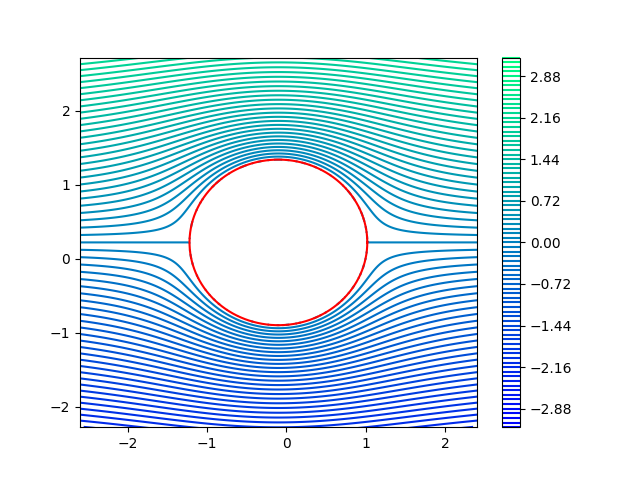
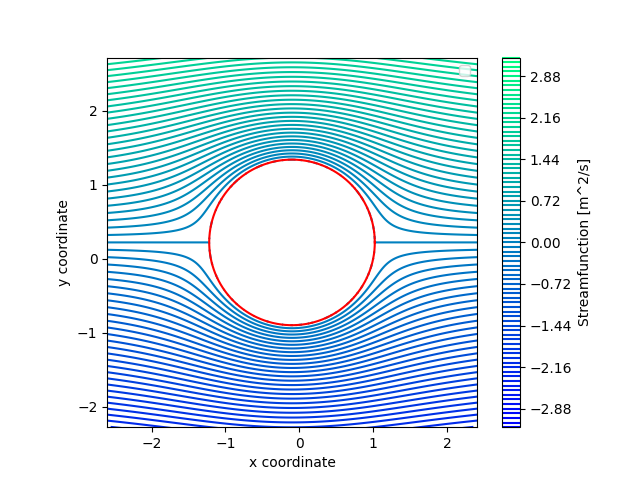
aded axis labels and regenerated figures with new axis labels

Changed region(s): [[0.0938, 0.125, 0.75, 0.9688], [0.9062, 0.4062, 0.9375, 0.6875], [0.9062, 0.3438, 0.9375, 0.375]]

diff --git a/python/project 1/premade_figures.py b/python/project 1/premade_figures.py
@@ -11,24 +11,24 @@ U = 1
 #question_a(save=True, filename='a_scatter.png')
 #endregion
 #region b)
-#plotter(plotter_function(1, a, 0), joukowski=False, draw_shape=True, fig_limit=2.5, contours=100, save=True, filename='b_streamfunction_gamma0.png')
-#plotter(plotter_function(1, a, -3), joukowski=False, draw_shape=True, fig_limit=2.5, contours=100, save=True, filename='b_streamfunction_gamma-3.png')
+#plotter(plotter_function(1, a, 0), joukowski=False, draw_shape=True, fig_limit=2.5, contours=100, save=True, filename='b_streamfunction_gamma0.png', label='Streamfunction', units='m^2/s')
+#plotter(plotter_function(1, a, -3), joukowski=False, draw_shape=True, fig_limit=2.5, contours=100, save=True, filename='b_streamfunction_gamma-3.png', label='Streamfunction', units='m^2/s')
 #endregion
 #region c)
-#plotter(plotter_function(1, a, 0), joukowski=True, draw_shape=True, fig_limit=2.5, contours=100, save=True, filename='c_streamfunction_gamma0.png')
-#plotter(plotter_function(1, a, -3), joukowski=True, draw_shape=True, fig_limit=2.5, contours=100, save=True, filename='c_streamfunction_gamma-3.png')
+#plotter(plotter_function(1, a, 0), joukowski=True, draw_shape=True, fig_limit=2.5, contours=100, save=True, filename='c_streamfunction_gamma0.png', label='Streamfunction', units='m^2/s')
+#plotter(plotter_function(1, a, -3), joukowski=True, draw_shape=True, fig_limit=2.5, contours=100, save=True, filename='c_streamfunction_gamma-3.png', label='Streamfunction', units='m^2/s')
 #endregion
 #region d)
-#plotter(plotter_function(1, a, correct_gamma), joukowski=True, draw_shape=True, fig_limit=0.3, fig_offset=[2.1, -0.2], contours=400, save=True, filename=f'd_streamfunction_gamma-{correct_gamma}.png')
+plotter(plotter_function(1, a, -0.2), joukowski=True, draw_shape=True, fig_limit=0.3, fig_offset=[2.1, -0.2], contours=400, save=True, filename=f'd_streamfunction_gamma-{-0.2}.png', label='Streamfunction', units='m^2/s')
 #endregion
 #region e)
-#plotter(plotter_function(1, a, correct_gamma), joukowski=True, draw_shape=True, fig_limit=2.5, contours=100, save=True, filename=f'e_streamfunction_gamma-{correct_gamma}.png')
-#plotter(plotter_function(1, a, correct_gamma, function='stream'), joukowski=True, draw_shape=True, fig_limit=0.3, fig_offset=[2.1, -0.2], contours=800, save=True, filename=f'e_zoomed_streamfunction_gamma-{correct_gamma}.png')
+#plotter(plotter_function(1, a, correct_gamma), joukowski=True, draw_shape=True, fig_limit=2.5, contours=100, save=True, filename=f'e_streamfunction_gamma-{correct_gamma}.png', label='Streamfunction', units='m^2/s')
+#plotter(plotter_function(1, a, correct_gamma), joukowski=True, draw_shape=True, fig_limit=0.3, fig_offset=[2.1, -0.2], contours=800, save=True, filename=f'e_zoomed_streamfunction_gamma-{correct_gamma}.png', label='Streamfunction', units='m^2/s')
 #endregion
 #region f)
-#plotter(plotter_function(1, a, correct_gamma, function='pressure'), joukowski=True, draw_shape=True, fig_limit=2.5, contours=100, colourmap='turbo', fill=True, save=True, filename='f_pressure.png')
-#plotter(plotter_function(1, a, correct_gamma, function='jvelocity'), joukowski=True, draw_shape=True, fig_limit=2.5, contours=100, colourmap='turbo', fill=True, save=True, filename='f_joukowski_velocity.png')
+#plotter(plotter_function(1, a, correct_gamma, function='pressure'), joukowski=True, draw_shape=True, fig_limit=2.5, contours=100, colourmap='turbo', fill=True, save=True, filename='f_pressure.png', label='Pressure', units='Pa')
+#plotter(plotter_function(1, a, correct_gamma, function='jvelocity'), joukowski=True, draw_shape=True, fig_limit=2.5, contours=100, colourmap='turbo', fill=True, save=True, filename='f_joukowski_velocity.png', label='Velocity', units='m/s')
 #endregion
 #region g)
-print_force(1, a=a, gamma=correct_gamma)
+#print_force(1, a=a, gamma=correct_gamma)
 #endregion

diff --git a/python/project 1/main.py b/python/project 1/main.py
@@ -105,7 +105,7 @@ def plotter_function(U, a, gamma, function = 'stream'):
 # a list fig_offset to determine the offset of the plot, a constant contours to determine the number of contours to plot,
 # a string colourmap to determine the colourmap to use for the contours, a boolean fill to determine whether to fill the contours or not,
 # and a boolean save to determine whether to save the plot or not, with the filename specified by filename
-def plotter(f, joukowski=False, draw_shape=False, fig_limit = 2.5, fig_offset = [0, 0], contours = 100, colourmap = 'winter', fill = False, save = False, filename = 'figure.png'):
+def plotter(f, joukowski=False, draw_shape=False, fig_limit = 2.5, fig_offset = [0, 0], contours = 100, colourmap = 'winter', label = '', units = '', scale = True, fill = False, save = False, filename = 'figure.png'):
     theta = np.linspace(0, 2 * np.pi, 400)
     a = np.linspace(R, 3.5, 400)
     A, Theta = np.meshgrid(a,theta)
@@ -123,10 +123,15 @@ def plotter(f, joukowski=False, draw_shape=False, fig_limit = 2.5, fig_offset = 
         cs = ax.contourf(Z.real, Z.imag, val, levels=contours, cmap=mpl.colormaps[colourmap])
     else:
         cs = ax.contour(Z.real, Z.imag, val, levels=contours, cmap=mpl.colormaps[colourmap])
-    plt.colorbar(cs, ax=ax)
+    if scale:
+        plt.colorbar(cs, ax=ax, label=f'{label} [{units}]')
     cs.changed()
     ax.set_xlim(-1 * fig_limit + z0.real + fig_offset[0], fig_limit + z0.real + fig_offset[0])
     ax.set_ylim(-1 * fig_limit + z0.imag + fig_offset[1], fig_limit + z0.imag + fig_offset[1])
+    ax.set_aspect('equal', adjustable='box')
+    ax.set_xlabel('x coordinate')
+    ax.set_ylabel('y coordinate')
+    ax.legend()
     if draw_shape:
         ax.plot(z.real, z.imag, 2, color='red')
     if save:
